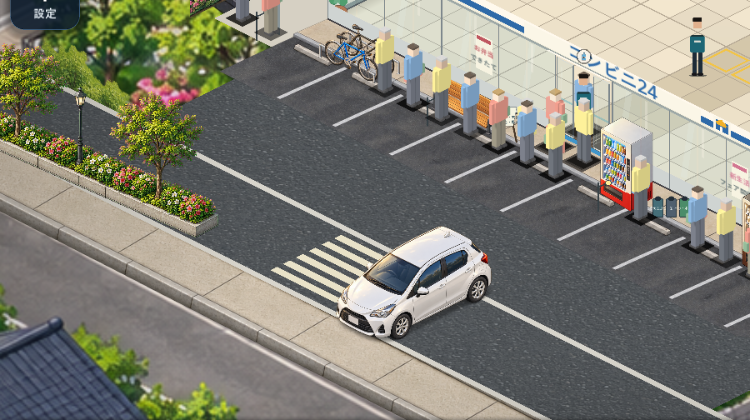
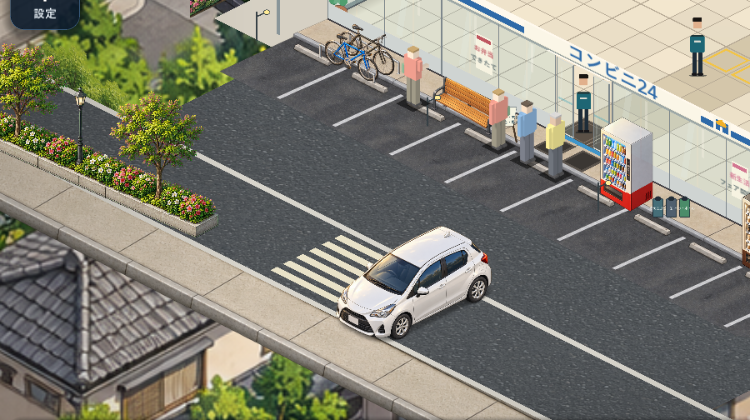
Replace open neighborhood ground with planted streetscape

diff --git a/docs/qa/exterior-area-a/REMAINING_DIFFERENCES.md b/docs/qa/exterior-area-a/REMAINING_DIFFERENCES.md
@@ -1,6 +1,6 @@
 # Mockup comparison: remaining exterior work
 
-Reference: user-supplied `image-1792819026698.webp` (16:28) and the current Godot 4.7.2 20x16 capture at 16:00, `camera-angle-match-v5-2026-10-31/v5-20x16-1600x900.png`. The six-region contact sheet at `comparison-2026-10-31/04_comparison/mockup_region_comparison.png` now shows the v5 camera-matched neighborhood and latest storefront, coffee-machine and fascia-title refinements. The latest viewport and store-size captures are listed in `RESULTS.md`. Crops are selected by visual subject, not pixel registration: the mockup and game use different camera framing, store contents, UI and object density.
+Reference: user-supplied `image-1792819026698.webp` (16:28) and the current Godot 4.7.2 20x16 capture at 16:00, `urban-context-lowpaved-v6-2026-10-31/v6-20x16-1600x900.png`. The six-region contact sheet at `comparison-2026-10-31/04_comparison/mockup_region_comparison.png` now shows the v6 camera-matched neighborhood and latest storefront, coffee-machine and fascia-title refinements. The latest viewport and store-size captures are listed in `RESULTS.md`. Crops are selected by visual subject, not pixel registration: the mockup and game use different camera framing, store contents, UI and object density.
 
 | Region | Target vs current | Remaining 2D work and world placement | Priority |
 |---|---|---|---|
@@ -9,7 +9,7 @@ Reference: user-supplied `image-1792819026698.webp` (16:28) and the current Godo
 | Parking | Both show asphalt, stalls and wheel stops. All four frontage panels now have generated asphalt and stone variation; the east/west apron transform was corrected after the original 10m source exposed an inward-facing panel. The target still has more natural curb wear and storefront-side detail. | Review panel edges at close scale and refine curb wear while retaining stall and wheel-stop placement. | P2 |
 | Road | Target shows a broader street, directional arrows and a moving/parked vehicle. Game now has opposing lane arrows, lane marks, edge line, crossing, and one static road car; it still has fewer traffic cues. | Review texture scale and distant fade under extreme camera movement; add road detail outside the store interaction footprint. | P2 |
 | Sidewalk | Target's bright pavers and curb sit among dense planting. All frontage profiles now add warmer stone variation. The road and apron underlay now have a world-scaled asphalt image fading into a flat base at its finite ends. | Review the frontage edges and improve the road separately, preserving world anchors and camera-follow behavior. | P2 |
-| Planting and neighborhood | Target surrounds the building with layered trees, flowering beds, sidewalks, and low residential context. Runtime uses the 2:1 dimetric `urban_context_dimetric_v5` scene; its major roads, sidewalks, rooflines and canal-side paths follow the store's two projected ground axes. Captures at 12x10, 16x12, 20x16, both 20x16 pan limits, 1280x720, 1920x1080 and 0.5x/2x zoom show continuous coverage without screen-space rotation or stretching. Homes and planted paths reduce the exposed tan field, though a broad paved residential block and the more detailed neighborhood finish remain visible. | Reduce the visible paved courtyard and bring background rendering closer to the storefront while preserving the matched dimetric axes and camera-follow behavior. | P1 |
+| Planting and neighborhood | Target surrounds the building with layered trees, flowering beds, sidewalks, and low residential context. Runtime now uses the 2:1 dimetric `urban_context_dimetric_v6` scene. Its narrow residential lanes, garden walls, houses and layered flowers replace the prior broad paved block while retaining the two dominant ground axes. Captures at 12x10, 16x12, 20x16, both 20x16 pan limits, 1280x720, 1920x1080 and minimum/maximum zoom show continuous viewport coverage without screen-space rotation or stretching. | Bring the neighborhood finish closer to the storefront’s flatter art style and review the generated house scale at close zoom; preserve the matched dimetric axes and camera-follow behavior. | P1 |
 | Pole sign | Target has a tall stacked sign with a blue store panel and separate service panels. The top panel now shares the コンビニ24 title with the fascia; tobacco, alcohol and ATM remain on separate colored panels. The target-like sign material and surface detail remain different. | Refine the store mark and sign surface detail while keeping the service rows readable at full-scene scale. | P2 |
 | Outdoor props | Target includes bike racks/bicycles, benches, banners, planters, bins, two vending machines and an open board. Large stores now get two angled vending sprites along the frontage: the door-side beverage machine and a distinct far-end coffee machine; smaller stores retain one. The near-side planter spacing is 3m while the grouped landscape edge remains free of duplicates. The coffee machine has a detailed cup display; the renderer style differs slightly from the flatter fixtures. | Add grouped promotional props and review near-side density against the target at full scene scale. | P2 |
 | Side wall and HVAC | Target's gray side wall carries vents, conduit, wall lights, stacked HVAC units and rear fencing. Game now has panel seams, vents, lamps, conduit, two HVAC units and a low gated service railing around the units. The wider rear-boundary fence and finer wall material detail remain missing. | Refine the HVAC railing material and add rear-boundary fencing only if it can be placed behind the opaque wall and grouped planting without breaking the root occlusion order. | P3 |

diff --git a/docs/qa/exterior-area-a/RESULTS.md b/docs/qa/exterior-area-a/RESULTS.md
@@ -676,3 +676,10 @@ Actual Godot 4.7.2 captures at 1600x900 cover 12x10 (`camera-angle-match-2026-10
 Replaced the prior neighborhood panel with the generated 1774x887 `urban_context_dimetric_v5` scene. Its major roads, sidewalks, rooflines and canal-side paths follow the store’s two projected ground axes. Runtime keeps it unrotated and uniformly scaled, anchored to the projected store center, and attached to camera pan/zoom; no image stretching was added. The new scene adds homes and planted paths around the store, reducing the exposed tan field, though a broad paved residential block and a more detailed painterly finish remain visible.
 
 Actual Godot 4.7.2 captures: 12x10, 16x12 and 20x16 at 1600x900; 20x16 left/right pan; 1280x720 and 1920x1080; and 0.5x/2x zoom. See `camera-angle-match-v5-2026-10-31/v5-qa-contact.png` for the contact sheet and the adjacent PNGs for individual views. Focused `test_backdrop_layer` passed 25 tests / 396 assertions, including source aspect, unrotated uniform transform, viewport coverage, store-center anchor and camera-pan translation. Focused `test_shell_camera_input` passed 10 tests / 96 assertions, including pan/zoom, selection after camera movement, fit-to-store and UI input isolation. No full suite was run.
+
+
+## Neighborhood open-ground reduction v6 (2026-10-31)
+
+Replaced the broad residential paved block in v5 with `urban_context_dimetric_v6`, a 1774x887 generated Japanese neighborhood image. Narrow streets, garden walls, low-rise home edges, layered trees and flower borders fill the backdrop; candidate B was selected over candidate A because the roofs intruded less at the store frame edges. Runtime remains unrotated and uniformly scaled, anchored at the projected store center, and follows camera pan/zoom. No stretching was introduced. The backdrop is a continuous environment image and does not affect floor input or simulation.
+
+Actual Godot 4.7.2 screenshots: 12x10, 16x12 and 20x16 at 1600x900; 20x16 left/right pan; 1280x720 and 1920x1080; and minimum/maximum zoom. Contact sheet: `urban-context-lowpaved-v6-2026-10-31/v6-qa-contact.png`. Focused `test_backdrop_layer` passed 25 tests / 396 assertions, including viewport coverage and camera-follow transform checks. Focused `test_shell_camera_input` passed 10 tests / 96 assertions, including pan, zoom, fit, selection after camera movement and UI input isolation. No full suite was run. Remaining difference: the generated neighborhood is more detailed than the flat store; maximum zoom intentionally focuses on the store and crops the environment.
